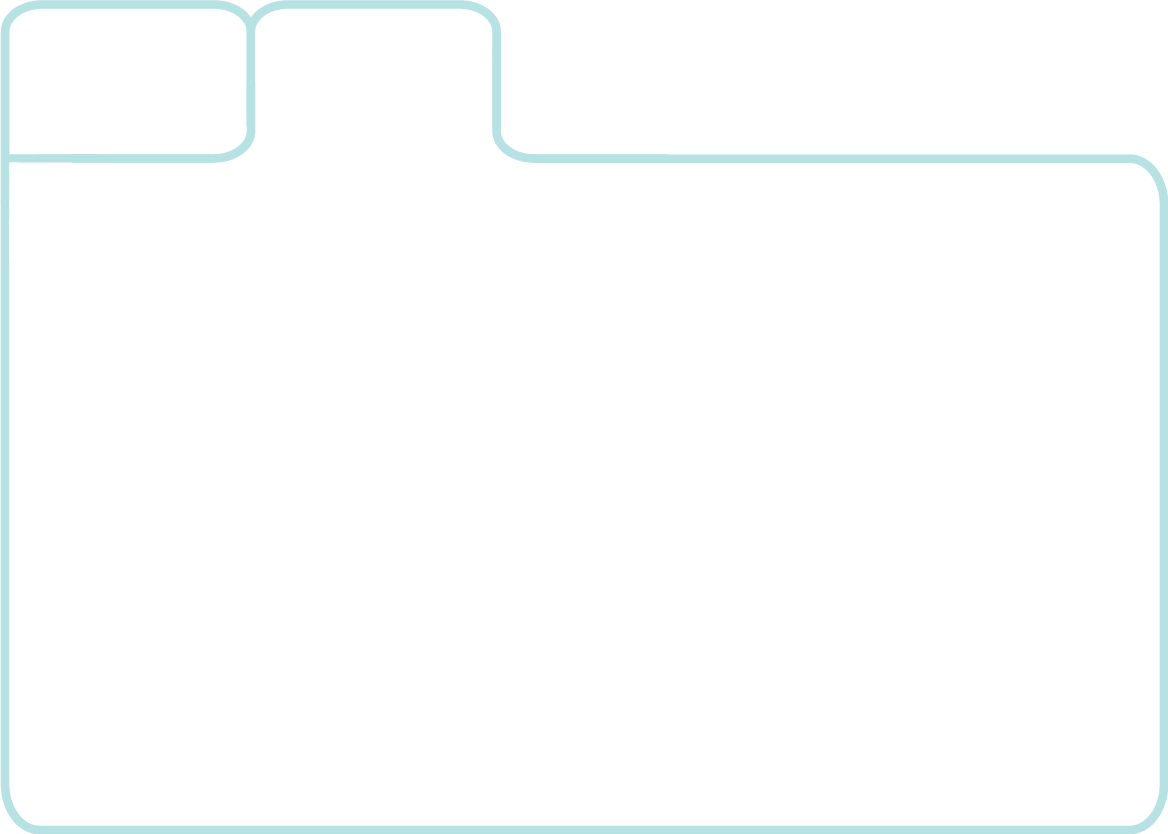
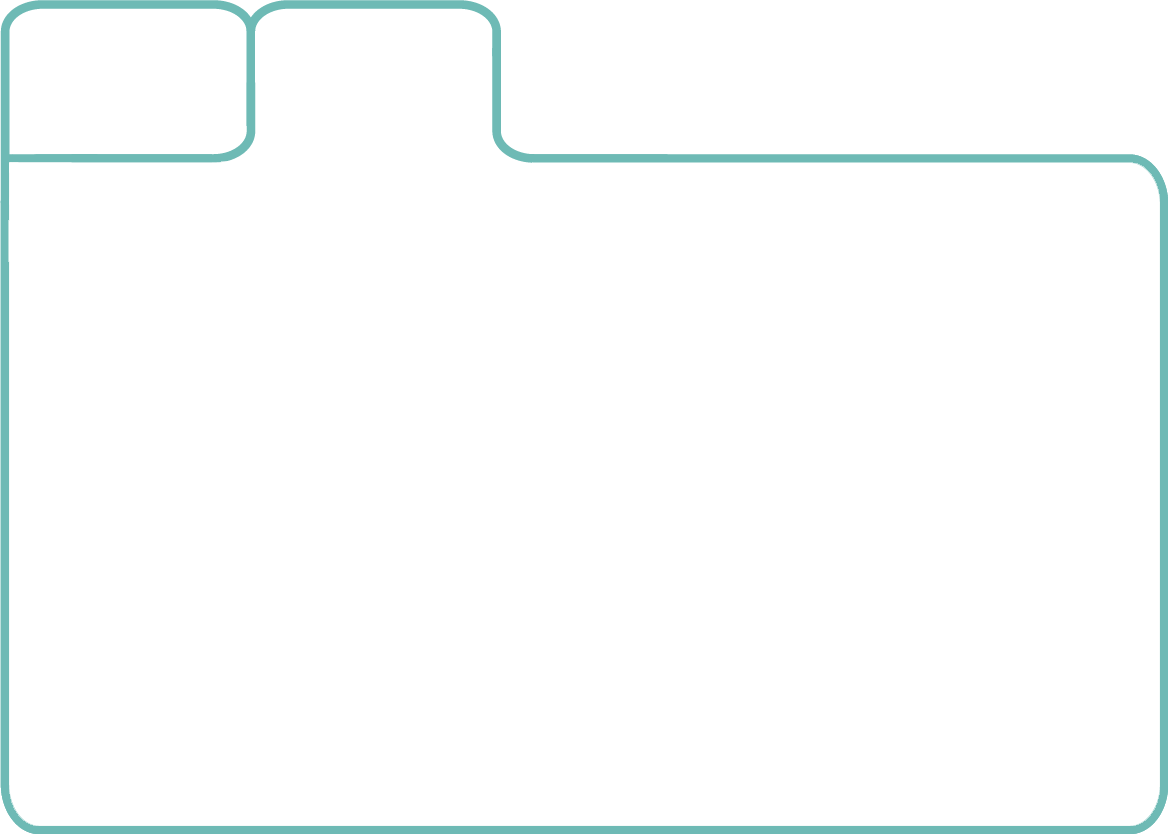
updated interface
darker colors, keyboard transitions (normal one will hide on enter,
numKeyboard has a transition)

Changed region(s): [[0.0, 0.0, 1.0, 1.0]]

diff --git a/SmartOvenPhone/src/numKeyboard.js b/SmartOvenPhone/src/numKeyboard.js
@@ -2,7 +2,8 @@
 /****** Key Button templates *****/
 
 /* SKINS */
-var greenS = new Skin({fill:"#67BFA0"});
+var greenS = new Skin({fill:"#6ebab5"});
+var greenTouchS = new Skin({fill:"#7d9694"});
 var keySkin = new Skin({fill:"#fcfdfd",borders:{left:0,right:0,top:0,bottom:1},stroke:"#c2c5c8"});
 var darkGreyS = new Skin({fill:"#c2c5c8"});
 var greyS = new Skin({fill:"#fcfdfd"});
@@ -18,7 +19,7 @@ var whiteStyle = new Style({font:"20px Heiti SC", color:"white", align:"left"});
 
 var action = "";
 var editedLabel = ""
-
+var keyBottom = -100;
 var fieldHint1 = ""
 /* Changes the value of "Set Temp:" when you type */
 function newTempVal(value) {
@@ -37,6 +38,7 @@ function newTempVal(value) {
 	}
 	
 var canAdd = 1;
+var firstOpen = 1;
 exports.openKeyboardTemplate = BUTTONS.Button.template(function($){ return{
 		top:$.top,left:$.left, right:$.right, width:$.width,fieldHint:$.fieldHint, label:$.label,max:$.max, action: $.action, height: $.height,skin:$.skin,keyboard:$.keyboard,
 	contents:$.contents,
@@ -48,17 +50,59 @@ exports.openKeyboardTemplate = BUTTONS.Button.template(function($){ return{
 				editedLabel.string = "";
 				}
 			fieldHint1 = $.fieldHint
-			if (canAdd) {				
-				application.add(numKeyboard);
+			if (canAdd) {
+				if (firstOpen) {		
+					application.add(numKeyboard);
+					firstOpen = 0;
+					}
+				button.invoke(new Message("/delayKey"));
 				action = $.action
-				trace(action);
-				application.invoke(new Message(action+"Open"));
+				//application.invoke(new Message(action+"Open"));
 				}
 			canAdd = 0;
 		}},
 	})
 }});
 
+Handler.bind("/moveKey", {
+    onInvoke: function(handler, message){
+    if (keyBottom < 0) {
+   		keyBottom += 10
+   		numKeyboard.coordinates = {left:0,right:0,bottom:keyBottom}
+   		trace(keyBottom+ "\n")
+	 	handler.invoke( new Message("/delayKey")); }
+	 else {
+	 	trace("hayyall");
+	 	//keyBottom = -100
+	 	}}
+	    
+});
+Handler.bind("/delayKey", {
+    onInvoke: function(handler, message){
+        handler.wait(10); //will call onComplete 1000 = 1sec
+    },
+    onComplete: function(handler, message){
+        handler.invoke(new Message("/moveKey"));
+    }
+});
+Handler.bind("/hideNumKey", {
+    onInvoke: function(handler, message){
+	if (keyBottom > -250) {
+		keyBottom -= 10
+		trace(keyBottom+"\n")
+		numKeyboard.coordinates = {left:0,right:0,bottom:keyBottom}
+		handler.invoke(new Message("/delayKeyHide"));
+		}
+	    
+}});
+Handler.bind("/delayKeyHide", {
+    onInvoke: function(handler, message){
+        handler.wait(10); //will call onComplete 1000 = 1sec
+    },
+    onComplete: function(handler, message){
+        handler.invoke(new Message("/hideNumKey"));
+    }
+});
 
 
 
@@ -93,6 +137,7 @@ var delKeyTemplate = BUTTONS.Button.template(function($){ return{
 	})
 }});
 
+
 // enter key
 
 var enterKeyTemplate = BUTTONS.Button.template(function($){ return{
@@ -101,7 +146,7 @@ var enterKeyTemplate = BUTTONS.Button.template(function($){ return{
 	behavior: Object.create(BUTTONS.ButtonBehavior.prototype, {
 		onTap: { value:  function(button){
 			button.skin = greenS;
-			application.remove(numKeyboard);
+			button.invoke(new Message("/hideNumKey"));
 			canAdd = 1;
 			if (editedLabel.string.length == 0) {
 				editedLabel.string = fieldHint1
@@ -109,7 +154,7 @@ var enterKeyTemplate = BUTTONS.Button.template(function($){ return{
 			application.invoke(new Message(action));
 		}},
 		onTouchBegan: { value:  function(button){
-			button.skin = greyS
+			button.skin = greenTouchS
 			
 		}}
 	})
@@ -155,4 +200,4 @@ var thirdRow = new Container({left:0, right:0, top:0,height: keyHeight,skin: gre
 var fourthRow = new Container({left:0, right:0, top:0,height: keyHeight,skin:darkGreyS, contents: [zeroButton,delButton,blank,zero,del]})
 
 /*The keyboard */
-var numKeyboard = new Column( {right:0,left:0, bottom:0,contents: [enterKey, firstRow,secondRow,thirdRow,fourthRow]});
+var numKeyboard = new Column( {right:0,left:0, bottom:keyBottom,contents: [enterKey, firstRow,secondRow,thirdRow,fourthRow]});

diff --git a/SmartOvenPhone/src/AddSchedScreen.js b/SmartOvenPhone/src/AddSchedScreen.js
@@ -48,7 +48,20 @@ var nameField = Container.template(function($) { return {
          			var data = this.data;
               data.name = label.string;
               label.container.hint.visible = ( data.name.length == 0 );	
-         		}}
+         		}},
+            onKeyDown: { value:  function(label, key, repeat, ticks) {
+                    if (key) {
+                        var code = key.charCodeAt(0);
+                        if (code == 3 /* enter */ || code == 13 /* return */) {
+                            KEYBOARD.hide();
+                            subContainer.focus()
+							
+                        } else {
+                            CONTROL.FieldLabelBehavior.prototype.onKeyDown.call(this, label, key, repeat, ticks);
+                        }
+                    }
+                }   
+            }
          	}),
          }),
          Label($, {
@@ -218,12 +231,6 @@ var timeContainer = new Line({left:0, top:5, bottom:10, contents:[timeLabel, hou
 var stepLabel = new Label({top:10, left:0, string:"Step 1", style:labelStyle});
 var fieldContainerTemplate = Container.template(function($) { return {
 	name:"fieldContainer", top:10,skin: greenBorderS, active: true,
-	behavior: Behavior({
-		onTouchEnded: function(content){
-			KEYBOARD.hide();
-			content.focus();
-		}
-	}),
 	contents: [
 		new Column({left:15, top:0, right:15, width: 270, contents:[stepLabel,tempActionContainer,timeContainer]})
 	]
@@ -272,7 +279,7 @@ var doneButton = new doneButtonTemplate();
 var doneButtonContainerTemplate = Container.template(function($) { return {
 	top:10, left:10, bottom: 20, contents:[doneButton]
 }});
-var mainFieldContainer = new Column({name:"subCol", contents:[fieldContainer, instructionContainer]});
+var mainFieldContainer = new Column({name:"subCol", contents:[fieldContainer, instructionContainer], active:true});
 
 var scroller = SCROLLER.VerticalScroller.template(function($){ return{
 	contents:$.contents

diff --git a/SmartOvenPhone/src/savedSched.js b/SmartOvenPhone/src/savedSched.js
@@ -7,7 +7,7 @@ var plusStyle = new Style({ font:"40px Heiti SC", color:"White", horizontal:"cen
 var nextStyle = new Style({ font:"30px Heiti SC", color:"gray", horizontal:"center", vertical:"top" });
 var whiteLabelStyle = new Style({ font:"16px Heiti SC", color:"white", horizontal:"center", vertical:"middle" });
 
-var greenS = new Skin({fill:"#67BFA0"});
+var greenS = new Skin({fill:"#6ebab5"});
 var greyS = new Skin({fill:"gray"});
 var whiteSkin = new Skin({fill:"white"});
 
@@ -16,7 +16,7 @@ var info1 = "Step 1: Bake at 300 °F";
 info1Label = new Label({top:5, left:0, bottom:0, height:20, string:info1, style: labelStyle});
 var info2 = "for 0 hours and 45 minutes";
 info2Label = new Label({top:0, left:0, bottom:5, height:20, string:info2, style: labelStyle});
-var addLabelColumn = new Column({left:0, right:0,contents: [info1Label, info2Label]});
+var addLabelColumn = new Column({left:0, right:0,contents: [info1Label,info2]});
 var addLabelContainer = new Line({top:0, left:15, right:0, height:80, skin:whiteSkin, contents:[addLabelColumn]});
 
 /* step 2 */
@@ -62,7 +62,6 @@ exports.mainContainer = new Column.template(function($) { return {top:0, left:0,
 		}),
 		addLabelContainer,
 		new Container({height:1, skin:greenS, left:10, right:10}),
-		addLabelContainer1,
 		new startButtonContainerTemplate()
 	]
 }});

diff --git a/SmartOvenPhone/src/mainScreen.js b/SmartOvenPhone/src/mainScreen.js
@@ -8,7 +8,7 @@ var gap = 10;
 
 /** SKINS **/
 var whiteSkin = new Skin({fill:"white"});
-var greenS = new Skin({fill:"#67BFA0"});
+var greenS = new Skin({fill:"#6ebab5"});
 var clearS = new Skin({fill:""});
 var darkGreyS = new Skin({fill:"#8A8A8A"});
 var greyS = new Skin({fill:"#CCCCCC"});
@@ -482,7 +482,7 @@ exports.mainColumn = new Column.template(function($) { return ({
 
 Handler.bind("/hardcodedInstruction", {
     onInvoke: function(handler, message){
-       	setTempVal.string = "325";
+       	setTempVal.string = "300";
 		application.invoke(new Message("/setTemp"));
         }
 });

diff --git a/SmartOvenPhone/src/SchedulesMain.js b/SmartOvenPhone/src/SchedulesMain.js
@@ -5,7 +5,7 @@ var backStyle = new Style({ font:"20px Heiti SC", color:"White", horizontal:"cen
 var plusStyle = new Style({ font:"40px Heiti SC", color:"White", horizontal:"center", vertical:"top" });
 var nextStyle = new Style({ font:"30px Heiti SC", color:"gray", horizontal:"center", vertical:"top" });
 
-var greenS = new Skin({fill:"#67BFA0"});
+var greenS = new Skin({fill:"#6ebab5"});
 var whiteSkin = new Skin({fill:"white"});
 
 var quicheLabel = new Label({left:15, style:labelStyle, string: "Quiche"});
